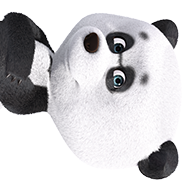
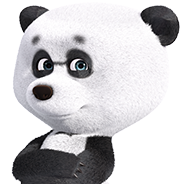
modified:   bin/imblSlits.py 	modified:   share/imblSlits/baby.png 	modified:   share/imblSlits/imblSlitsMainWindow.ui 	modified:   share/imblSlits/mama.png 	modified:   share/imblSlits/masha.png 	modified:   share/imblSlits/panda.png 	modified:   share/imblSlits/papa.png 	modified:   share/imblSlit

diff --git a/bin/imblSlits.py b/bin/imblSlits.py
@@ -8,7 +8,7 @@ from enum import Enum
 import epics
 
 binPath = os.path.dirname(os.path.realpath(__file__)) + os.path.sep
-sharePath = binPath + "../share/imblSlits"
+sharePath = binPath + "../share/imblSlits/"
 sys.path.append(sharePath)
 from slits import Slits, MotoRole
 
@@ -88,29 +88,32 @@ class MainWindow(QtWidgets.QMainWindow):
 
   shMode = SHmode()
   blMode = BLmode()
+  slitNames = {'panda': 'HHLS',
+               'baby' : 'Baby bear',
+               'mama' : 'Mama bear',
+               'papa' : 'Papa bear',
+               'masha': 'Detector' }
 
   def __init__(self):
 
     super(MainWindow, self).__init__()
-    self.ui = loadUi(sharePath + '/imblSlitsMainWindow.ui', self)
+    self.ui = loadUi(sharePath + 'imblSlitsMainWindow.ui', self)
     #self.ui = ui_slits.Ui_MainWindow()
     #self.ui.setupUi(self)
 
-    rotTrans = QtGui.QTransform().rotate(-90)
+    for nslt in self.slitNames.keys() :
+      eval('self.ui.'+nslt+'Bear.face.set(sharePath+nslt+\'.png\', self.slitNames[nslt])')
+
     tab = self.ui.tabWidget.tabBar()
     tab.setExpanding(True)
     for itab in range(0, tab.count()):
-      lab = QtWidgets.QLabel(tab.tabText(itab))
-      tab.setTabText(itab,'')
-      tab.setTabButton(itab,  QtWidgets.QTabBar.LeftSide, lab )
-      icon = tab.tabIcon(itab)
       slt = self.ui.tabWidget.widget(itab).findChild(Slits)
-      if slt :
-        slt.face.setPixmap( icon.pixmap(slt.face.minimumSize()).transformed(rotTrans) )
-        slt.face.hide()
+      slt.layFaceTab.layout().addWidget(slt.face)
+      tab.setTabButton(itab,  QtWidgets.QTabBar.LeftSide, slt.layFaceTab)
 
-    w = self.ui.tabWidget.tabBar().width()
-    tab = self.ui.tabWidget.setIconSize(QtCore.QSize(w,w))
+
+    #w = self.ui.tabWidget.tabBar().width()
+    #tab = self.ui.tabWidget.setIconSize(QtCore.QSize(w,w))
     self.ui.famWidget.hide()
 
 
@@ -148,40 +151,21 @@ class MainWindow(QtWidgets.QMainWindow):
         slit.setBase(20 if self.shMode.mode() == SHmode.Mode.MONO else 0)
     self.shMode.updated.connect(updateBase)
 
-
-    tabLay = { self.ui.panda : self.ui.pandaTab.layout(),
-               self.ui.baby  : self.ui.babyTab .layout(),
-               self.ui.mama  : self.ui.mamaTab .layout(),
-               self.ui.papa  : self.ui.papaTab .layout(),
-               self.ui.masha : self.ui.mashaTab.layout()  }
-    famLay = { self.ui.panda : self.ui.pandaFam.layout(),
-               self.ui.baby  : self.ui.babyFam .layout(),
-               self.ui.mama  : self.ui.mamaFam .layout(),
-               self.ui.papa  : self.ui.papaFam .layout(),
-               self.ui.masha : self.ui.mashaFam.layout()  }
-
     @pyqtSlot()
     def uiModeSwap():
-      if self.ui.mashaFam.layout().count() :
-        self.ui.famWidget.hide()
-        for slt, tal in tabLay.items() :
-          tal.addWidget(slt)
-          slt.findChild(Slits).face.hide()
-        self.ui.tabWidget.show()
-        self.sender().setText('In tabs')
-      else :
-        self.ui.tabWidget.hide()
-        for slt, fal in famLay.items() :
-          fal.addWidget(slt)
-          slt.findChild(Slits).face.show()
-        self.ui.famWidget.show()
-        self.sender().setText('All')
-      for slt in famLay.keys() :
-        slt.show()
+      toTab = self.ui.famWidget.isVisible()
+      self.ui.famWidget.setVisible(not toTab)
+      self.ui.tabWidget.setVisible(toTab)
+      wslt = 'Tab' if toTab else 'Fam'
+      for nslt in self.slitNames.keys():
+        eval('self.ui.'+nslt+wslt+'.layout().addWidget(self.ui.'+nslt+')')
+      for slt in self.ui.findChildren(Slits) :
+        eval('slt.layFace'+wslt+'.layout().addWidget(slt.face)')
+      self.sender().setText('All' if toTab else 'In tabs')
       QtCore.QTimer.singleShot(0, (lambda: self.resize(self.minimumSizeHint())))
 
-    self.ui.statusbar.addPermanentWidget(QtWidgets.QLabel('View: ', self))
-    uimode = QtWidgets.QPushButton('all', self)
+    self.ui.statusbar.addPermanentWidget(QtWidgets.QLabel('Show: ', self))
+    uimode = QtWidgets.QPushButton('All', self)
     uimode.clicked.connect(uiModeSwap)
     self.ui.statusbar.addPermanentWidget(uimode);
 

diff --git a/share/imblSlits/slits.py b/share/imblSlits/slits.py
@@ -21,6 +21,27 @@ class MotoRole(Enum) :
   TP = auto()
   BT = auto()
 
+
+class Face(QWidget):
+
+  def __init__(self, parent):
+    super(Face, self).__init__(parent)
+    lyt = QtWidgets.QVBoxLayout(self)
+    lyt.setContentsMargins(0, 0, 0, 0)
+    lyt.setSpacing(0)
+    self.labImg = QtWidgets.QLabel(self)
+    lyt.addWidget(self.labImg)
+    self.labTxt = QtWidgets.QLabel(self)
+    szpol = QtWidgets.QSizePolicy(QtWidgets.QSizePolicy.Fixed, QtWidgets.QSizePolicy.Fixed)
+    self.labTxt.setSizePolicy(szpol)
+    lyt.addWidget(self.labTxt)
+    lyt.setAlignment(self.labTxt, QtCore.Qt.AlignHCenter)
+
+  def set(self, image, text):
+    self.labImg.setStyleSheet('image: url(' + image + ');')
+    self.labTxt.setText(text)
+
+
 class BeamGeometry() :
 
   def  __init__(self):
@@ -185,14 +206,9 @@ class Slits(QWidget) :
     self.isOnLimit = False
     self.geometry = BeamGeometry()
     self.motors = {}
-    self.drivers = { MotoRole.HP : self.ui.dHP,
-                     MotoRole.HS : self.ui.dHS,
-                     MotoRole.VP : self.ui.dVP,
-                     MotoRole.VS : self.ui.dVS,
-                     MotoRole.LF : self.ui.dLF,
-                     MotoRole.RT : self.ui.dRT,
-                     MotoRole.TP : self.ui.dTP,
-                     MotoRole.BT : self.ui.dBT }
+    self.drivers = {}
+    for rol in list(MotoRole) :
+      exec('self.drivers[MotoRole.'+rol.name+'] = self.ui.d'+rol.name)
 
     self.ui.stack.lock(True)
     self.ui.stack.hide()
